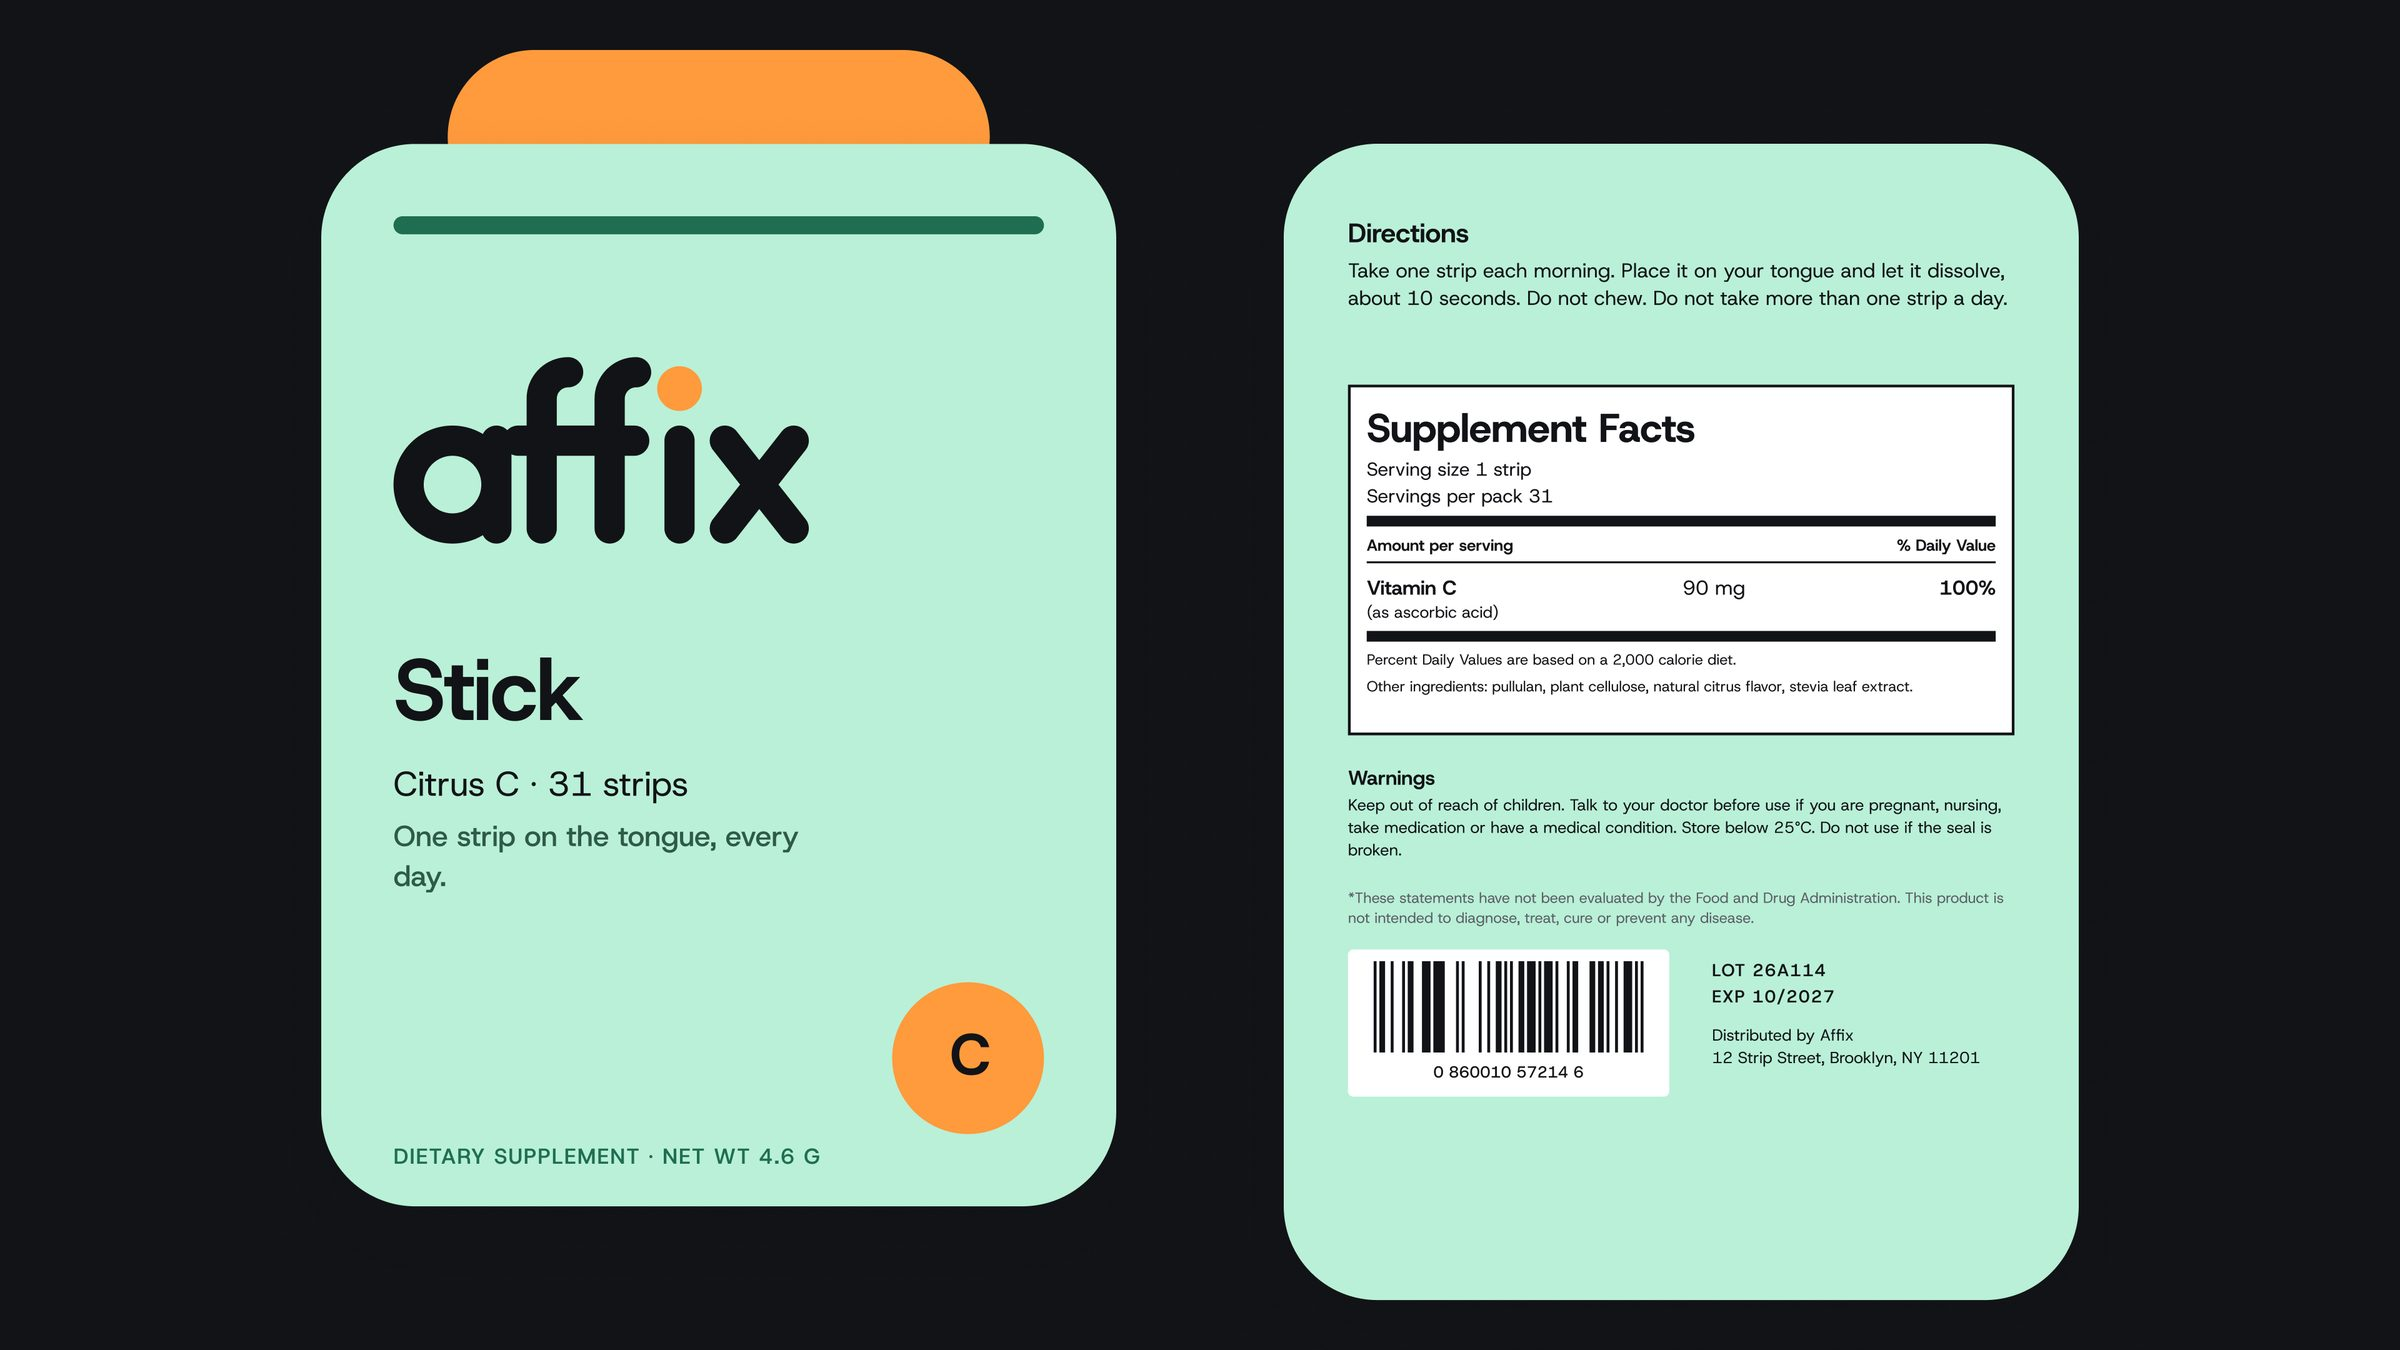
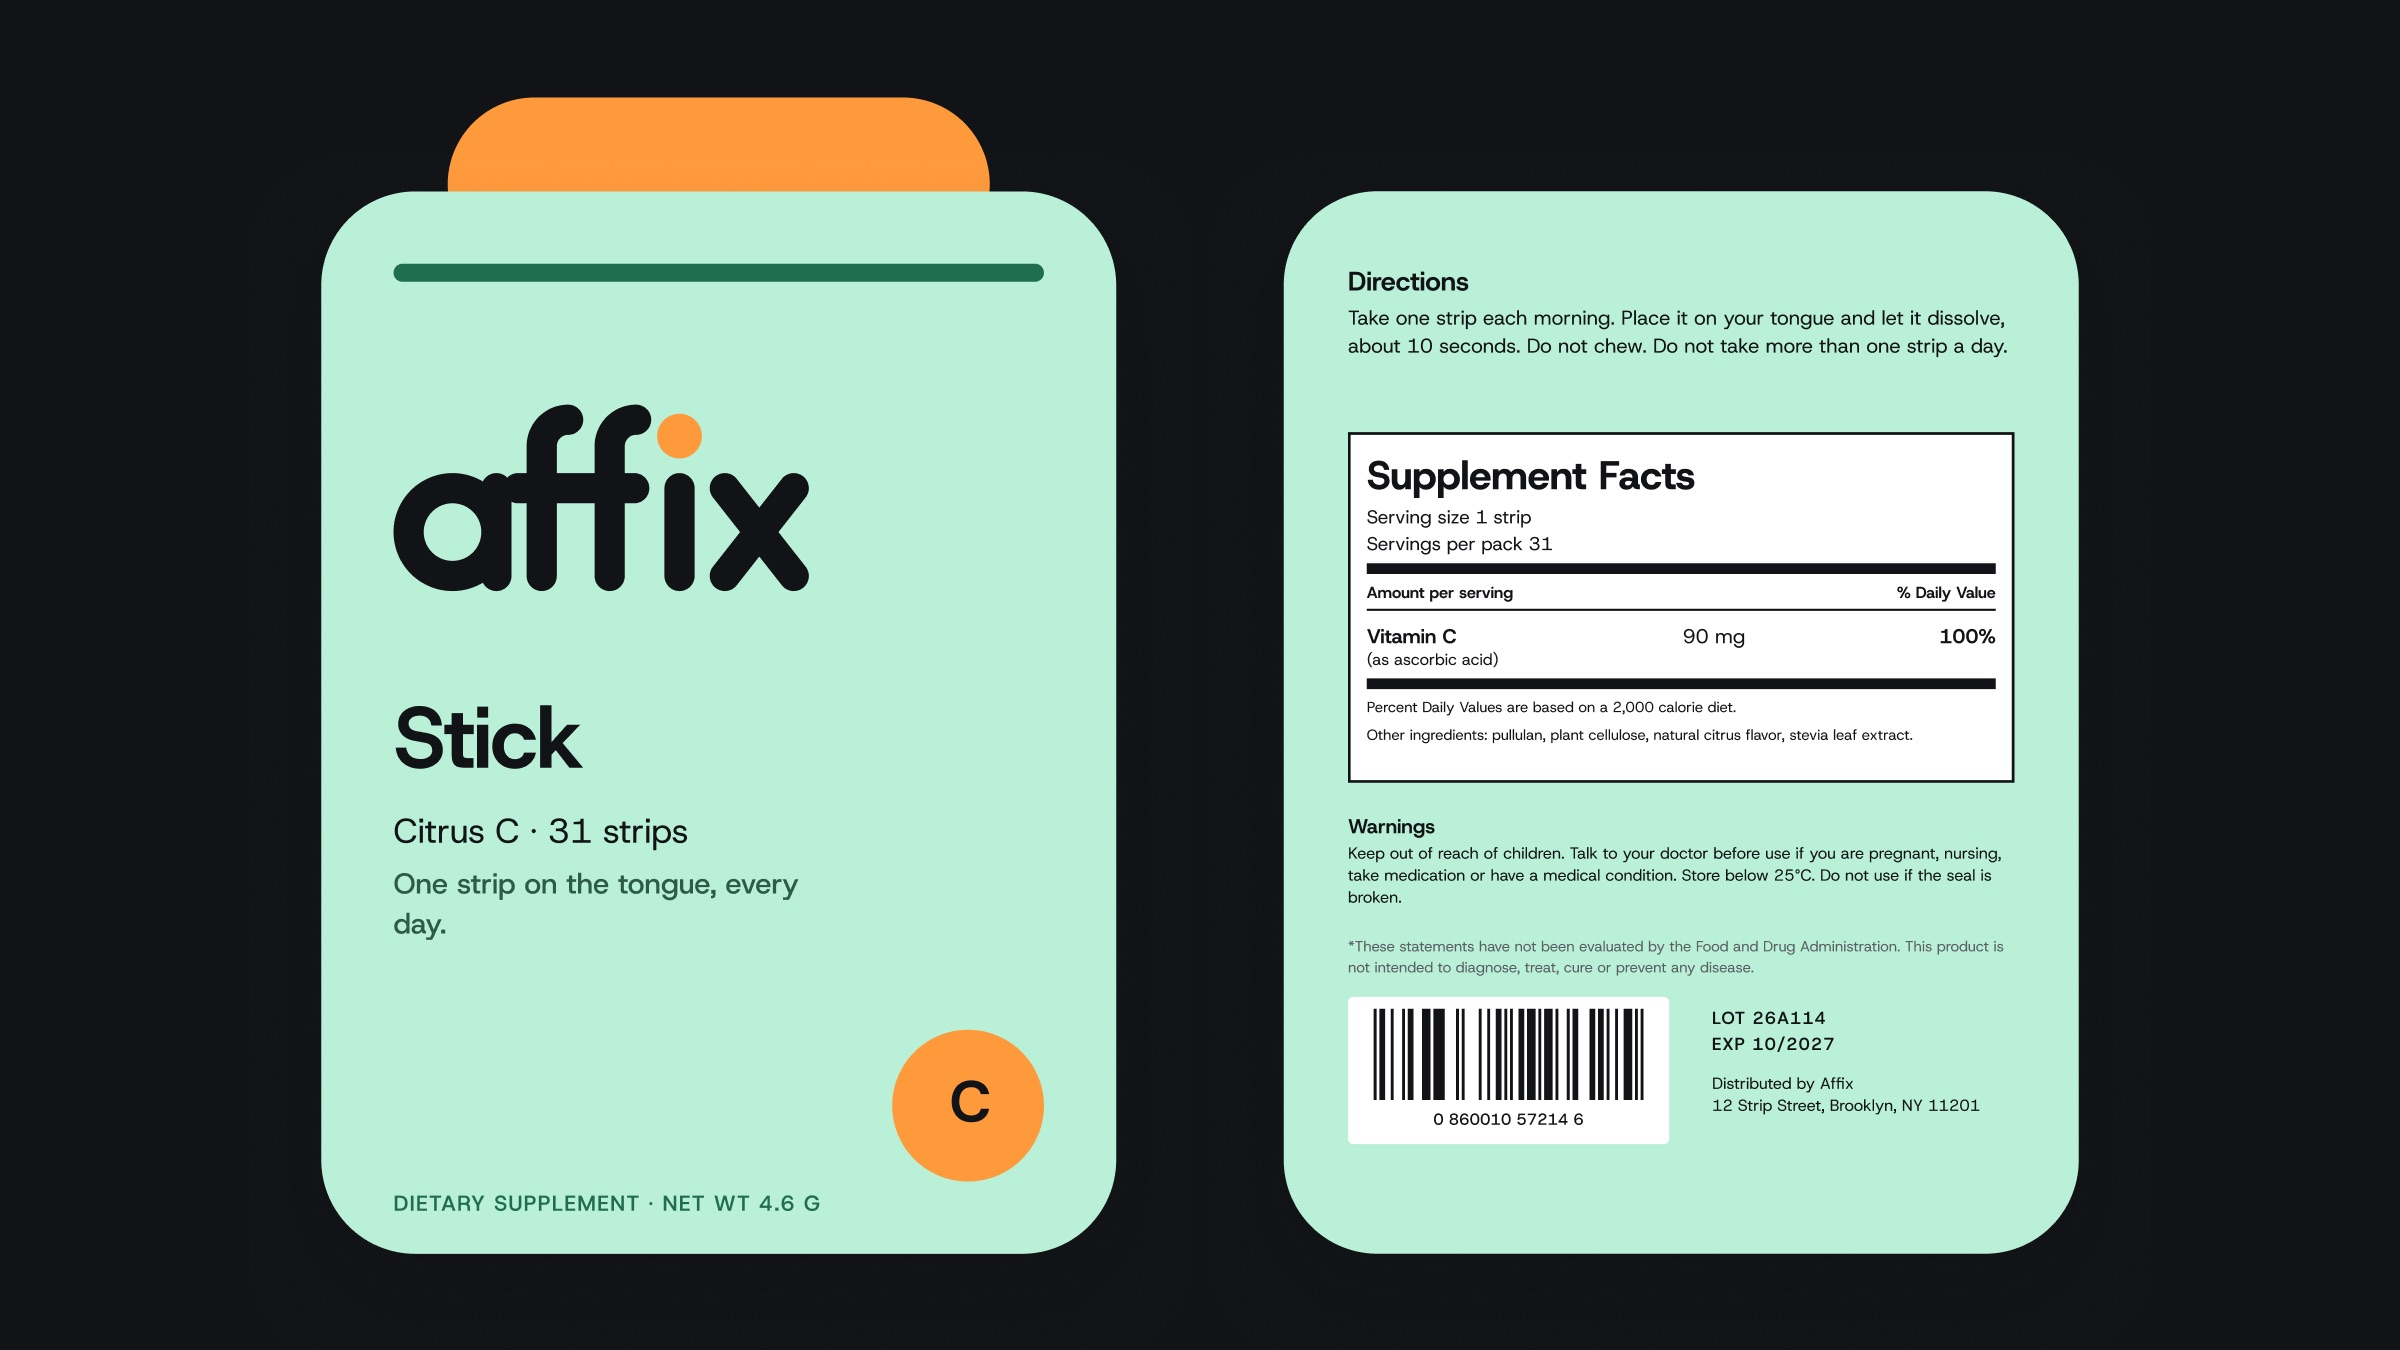
Affix refill and stick pack spreads: green panel removed; front and back packs same height

diff --git a/affix.html b/affix.html
@@ -40,11 +40,11 @@
     <img class="shot" src="img/affix-07.jpg?v=20261112c" alt="Affix" loading="lazy" width="2400" height="1350">
     <img class="shot" src="img/affix-08.jpg" alt="Affix" loading="lazy" width="2400" height="1350">
     <img class="shot" src="img/affix-09.jpg?v=20261112b" alt="Affix" loading="lazy" width="2400" height="1350">
-    <img class="shot" src="img/affix-10.jpg" alt="Affix" loading="lazy" width="2400" height="1350">
+    <img class="shot" src="img/affix-10.jpg?v=20261113a" alt="Affix" loading="lazy" width="2400" height="1350">
     <img class="shot" src="img/affix-11.jpg?v=20261112b" alt="Affix" loading="lazy" width="2400" height="1350">
     <img class="shot" src="img/affix-12.jpg" alt="Affix" loading="lazy" width="2400" height="1350">
     <img class="shot" src="img/affix-13.jpg" alt="Affix" loading="lazy" width="2400" height="1350">
-    <img class="shot" src="img/affix-14.jpg?v=20261112b" alt="Affix" loading="lazy" width="2400" height="1350">
+    <img class="shot" src="img/affix-14.jpg?v=20261113a" alt="Affix" loading="lazy" width="2400" height="1350">
     <img class="shot" src="img/affix-15.jpg" alt="Affix" loading="lazy" width="2400" height="1350">
     <img class="shot" src="img/affix-16.jpg" alt="Affix" loading="lazy" width="2400" height="1350">
     <img class="shot" src="img/affix-17.jpg" alt="Affix" loading="lazy" width="2400" height="1350">
